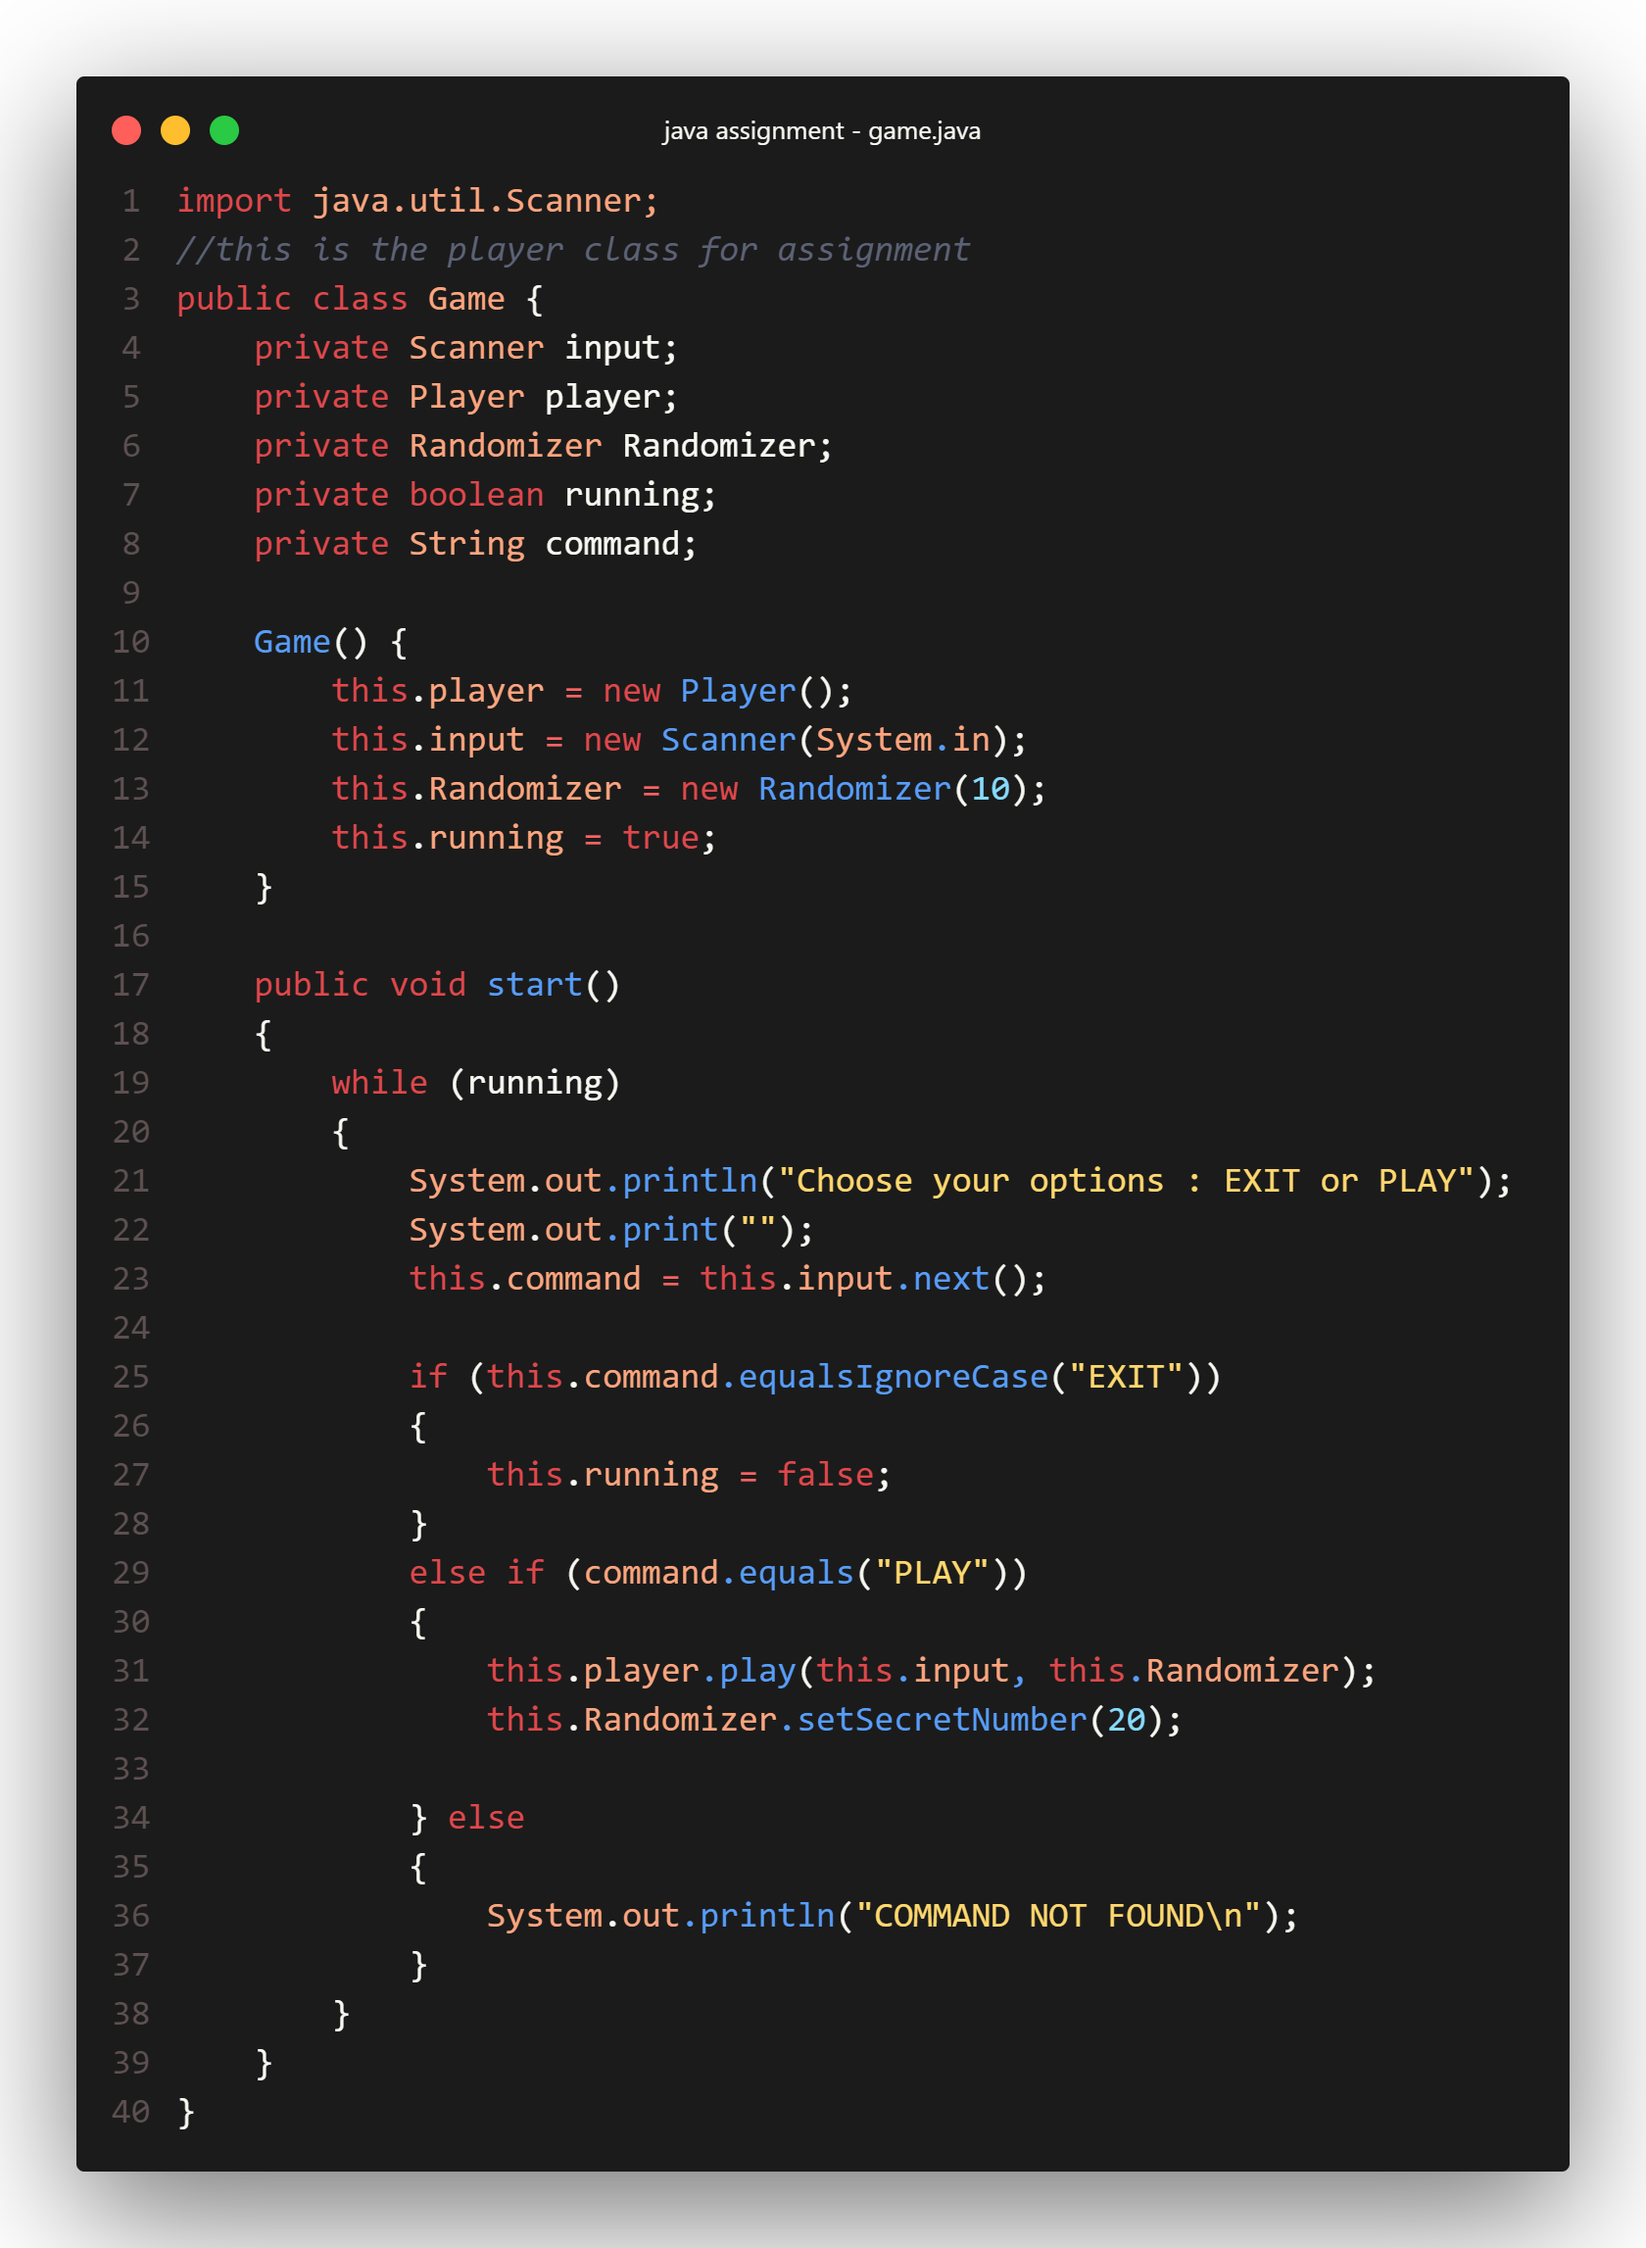
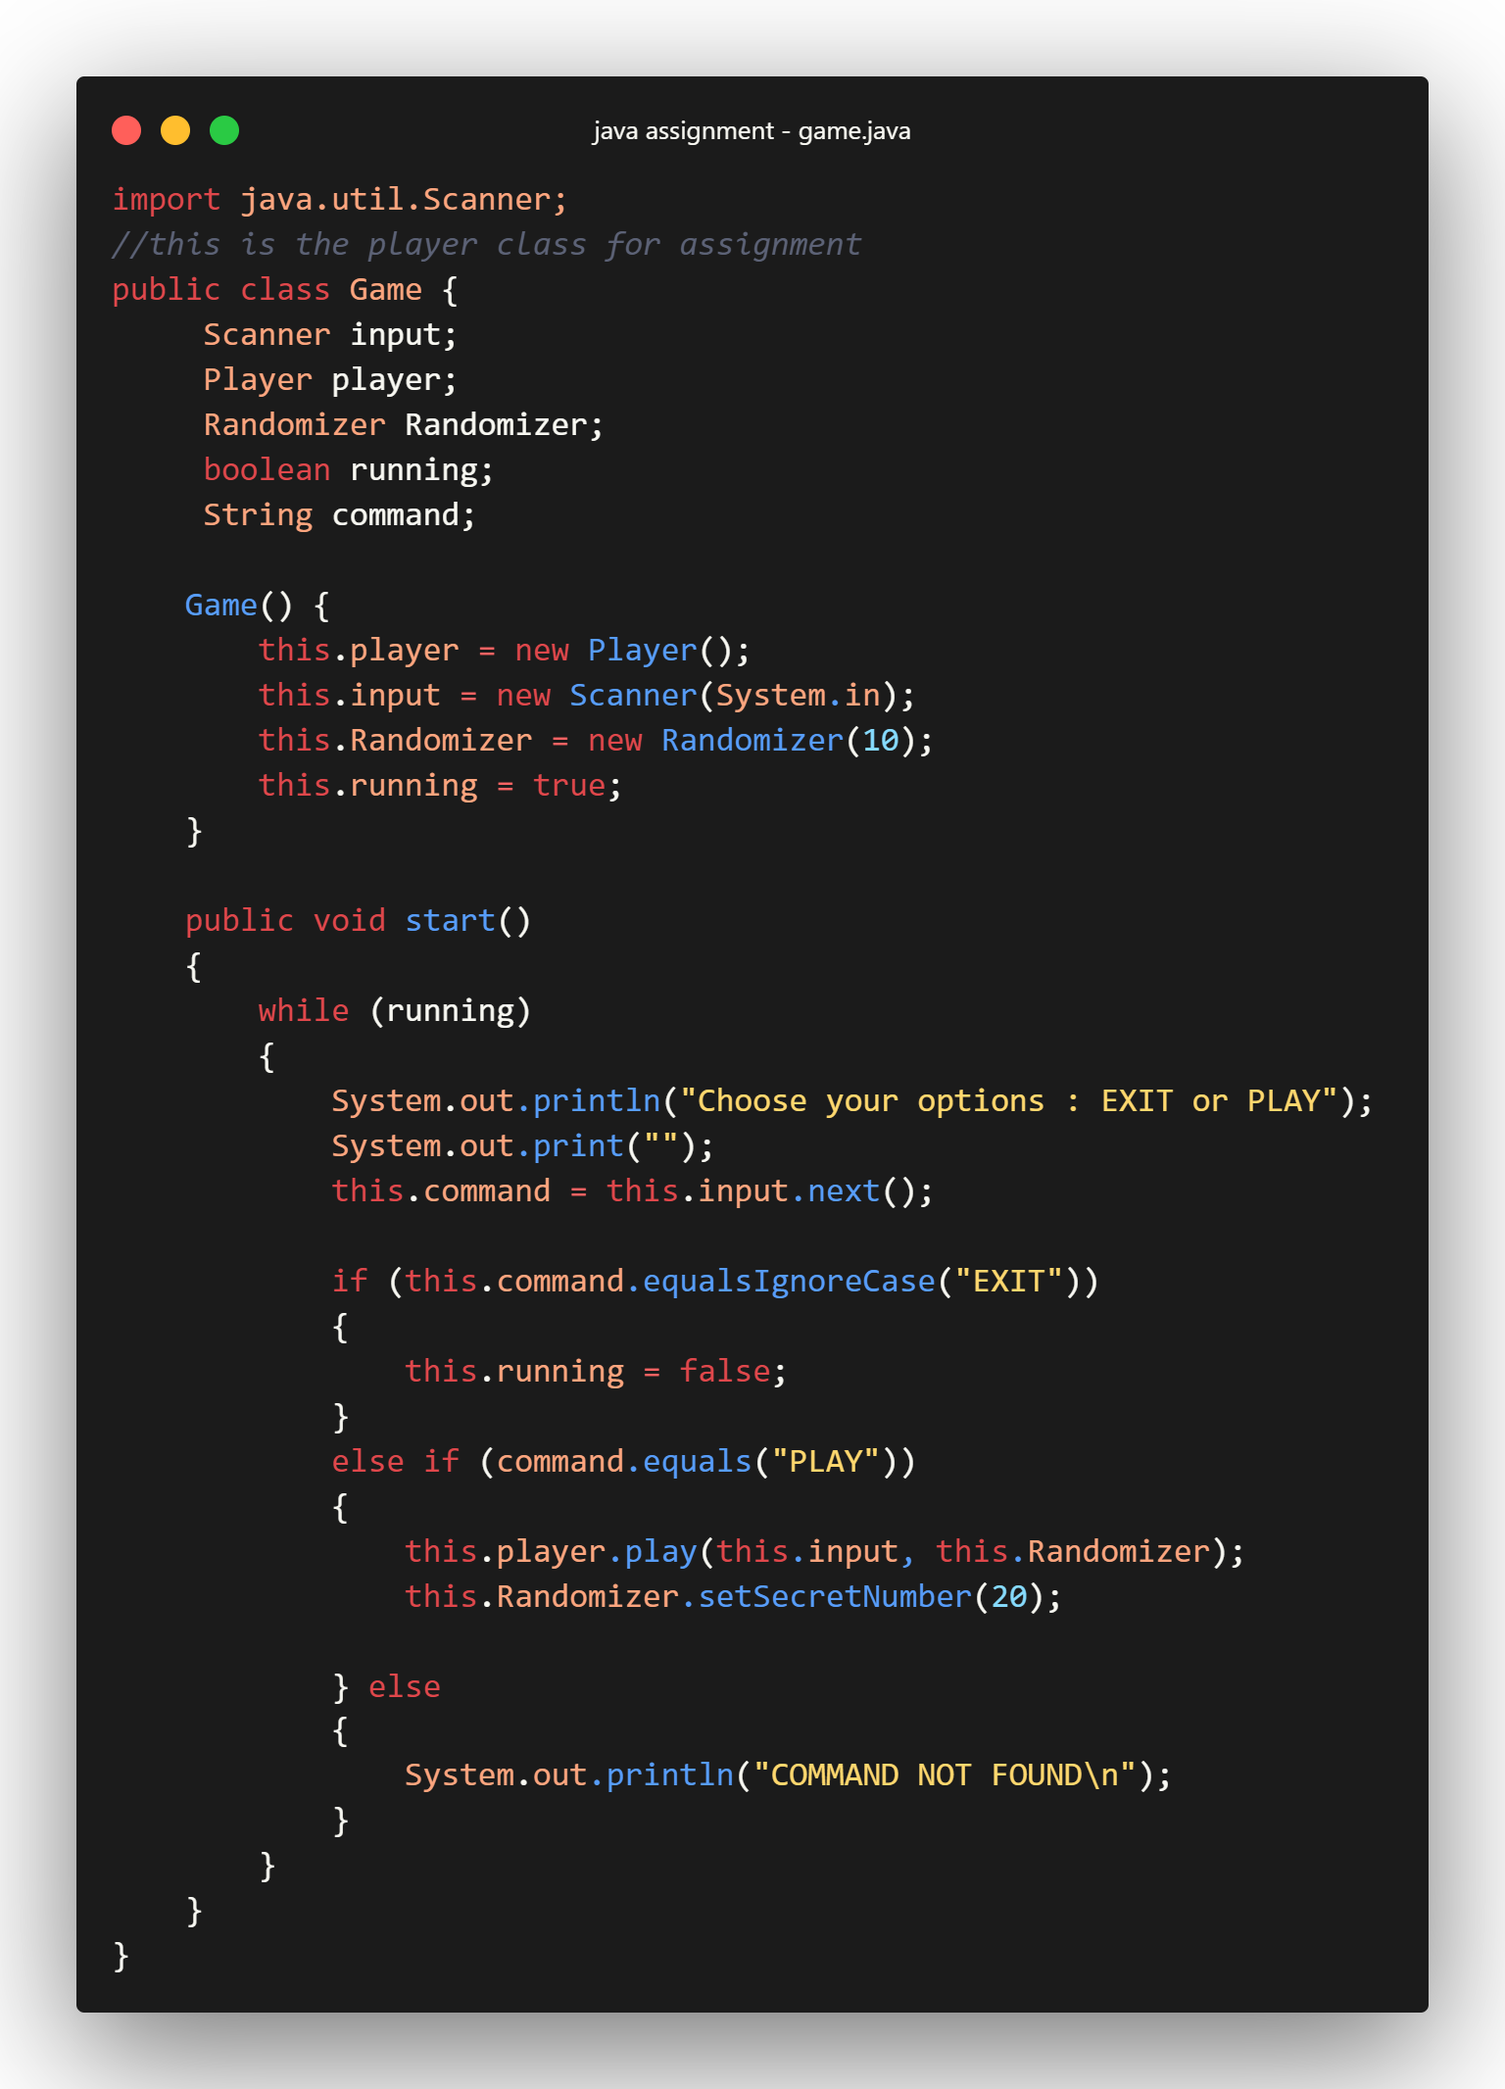
BUg fix 0.1🎃

diff --git a/Game.java b/Game.java
@@ -1,11 +1,11 @@
 import java.util.Scanner;
 //this is the player class for assignment
 public class Game {
-    private Scanner input;
-    private Player player;
-    private Randomizer Randomizer;
-    private boolean running;
-    private String command;
+     Scanner input;
+     Player player;
+     Randomizer Randomizer;
+     boolean running;
+     String command;
 
     Game() {
         this.player = new Player();
